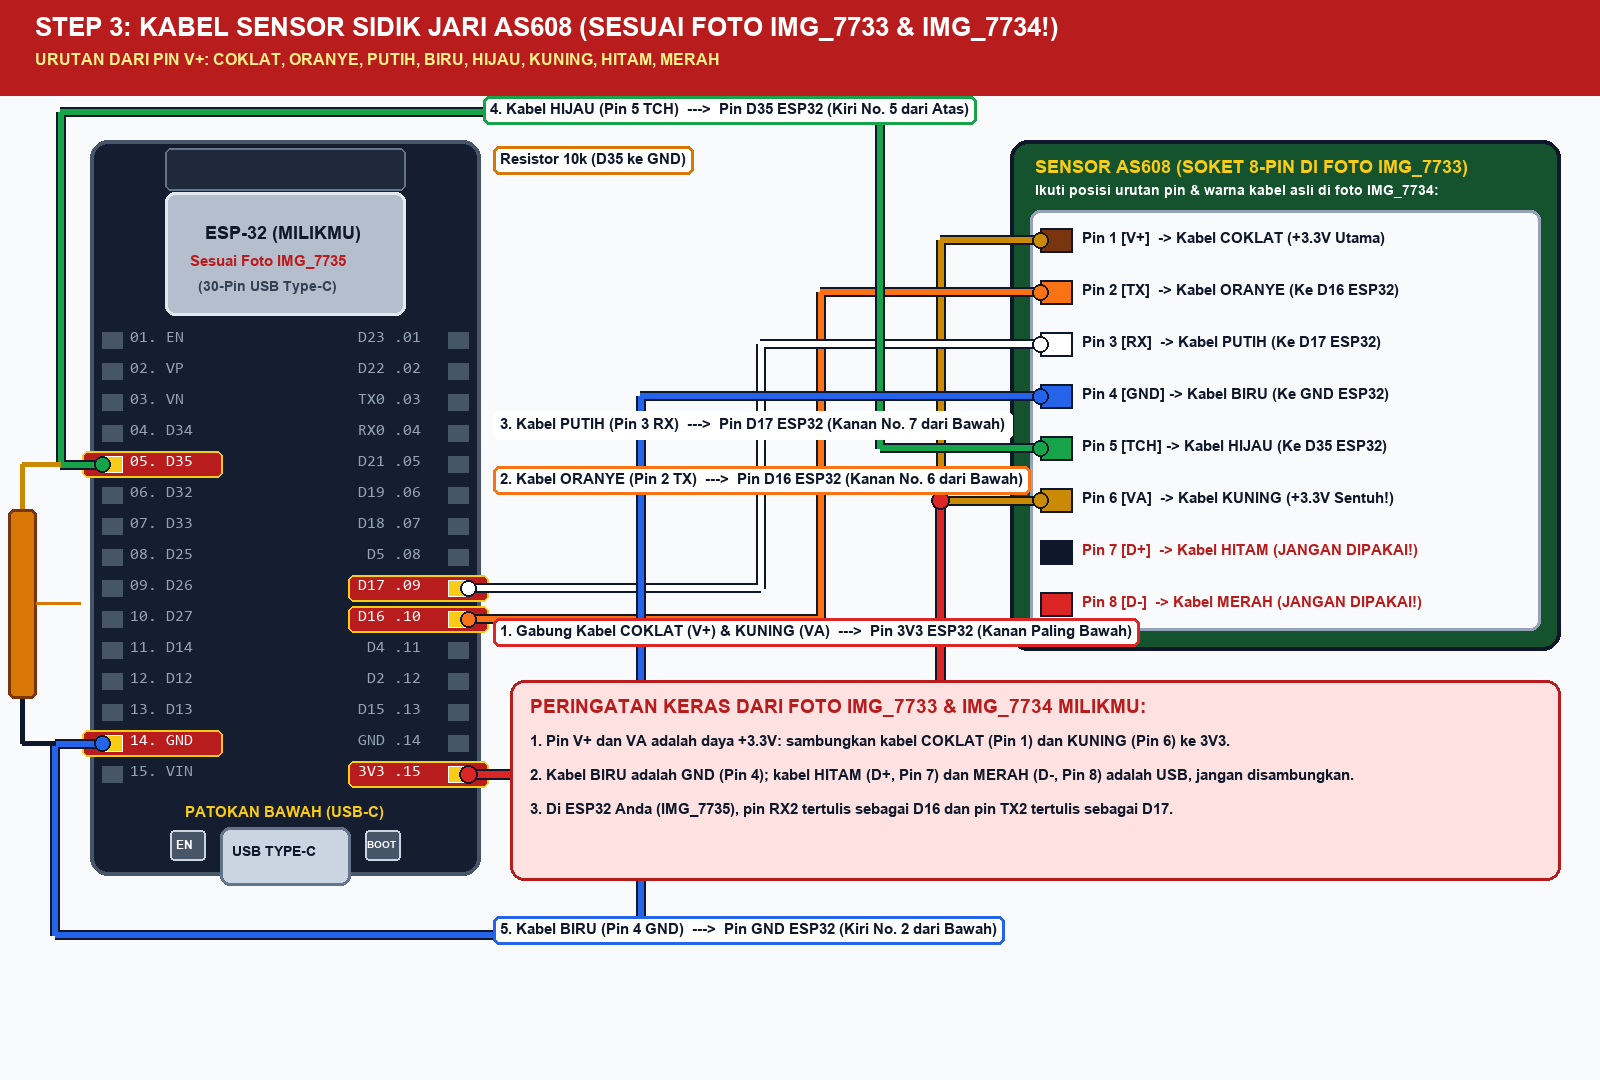
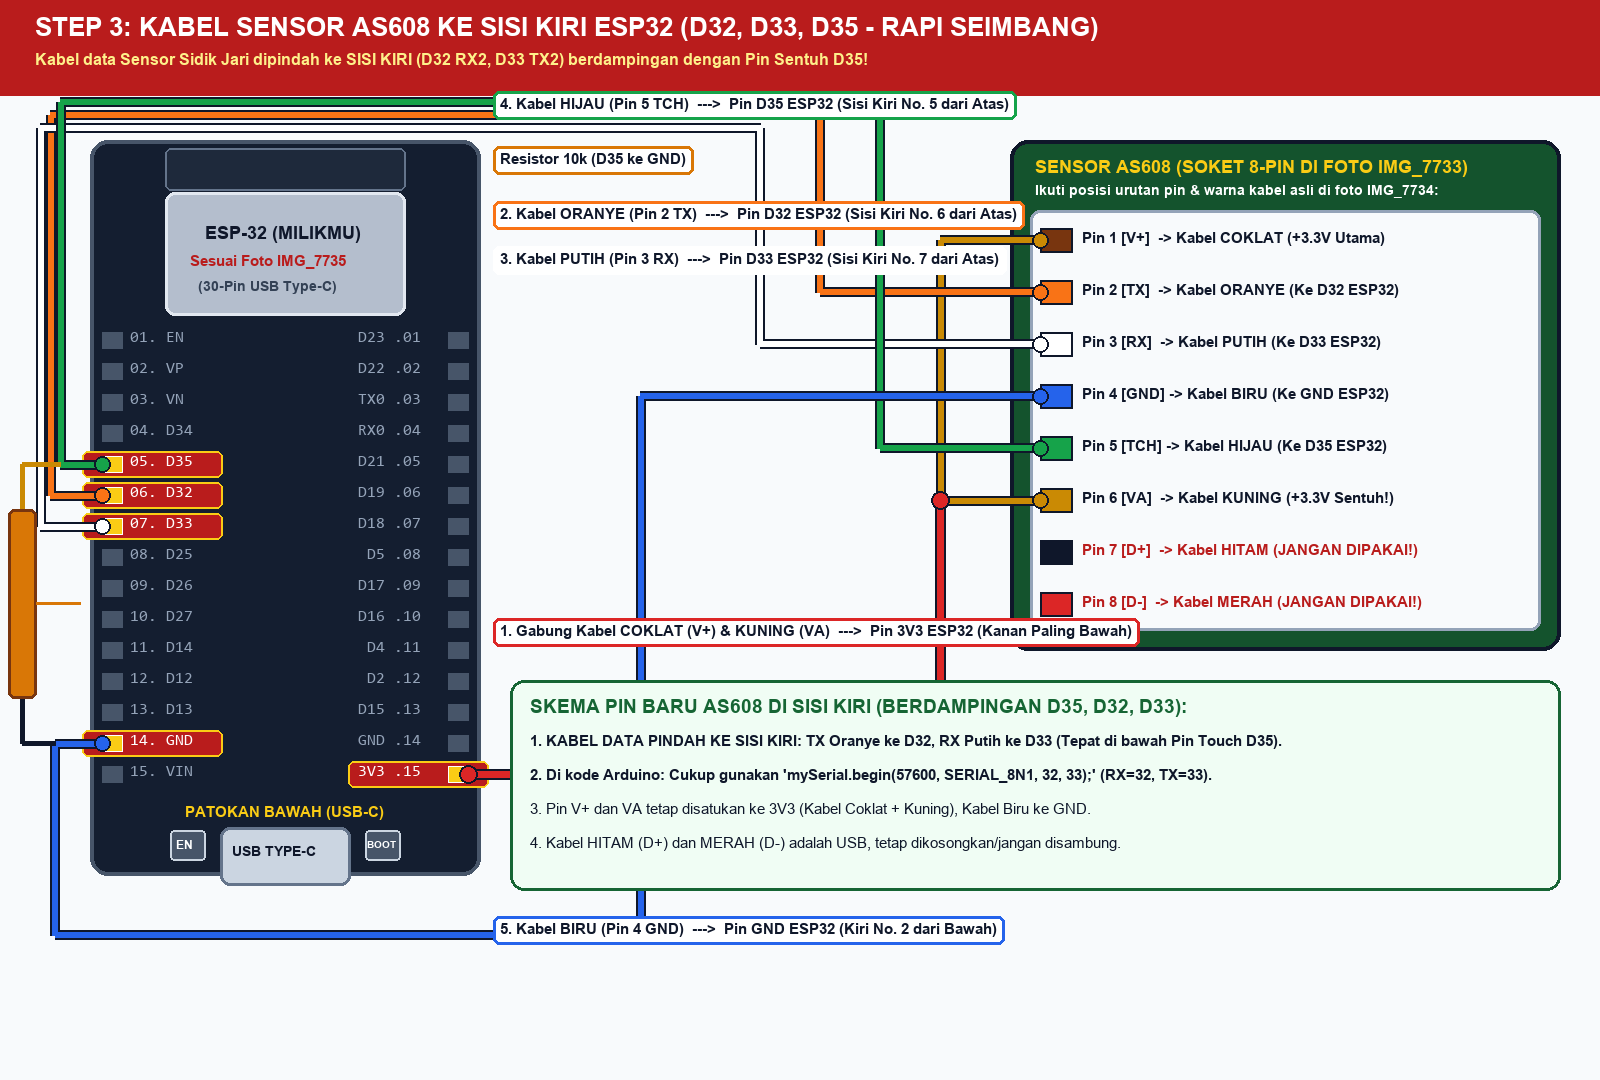
refactor: seimbangkan pinout 50-50 (OLED D25/D26 & AS608 D32/D33 di sisi kiri, W5500 di sisi kanan)

Changed region(s): [[0.3125, 0.6111, 1.0, 0.825], [0.0, 0.0, 0.6875, 0.5806], [0.2188, 0.5194, 0.375, 0.6111]]

diff --git a/render_wiring_steps.py b/render_wiring_steps.py
@@ -267,10 +267,10 @@ def make_step2():
     lbls = []
 
     d.rectangle([0, 0, W, 90], fill=(29, 78, 216))
-    d.text((35, 15), "STEP 2: PASANG LAYAR OLED 0.91\" KE ESP32 (SESUAI FOTO IMG_7735 & IMG_7736)", fill=(255, 255, 255), font=get_font(26, bold=True))
-    d.text((35, 53), "Di foto IMG_7736, tulisan di layar OLED Anda adalah: SDA, SCK, VCC, GND. Semua 4 kabel masuk ke sisi KANAN ESP32!", fill=(219, 234, 254), font=get_font(17, bold=True))
+    d.text((35, 15), "STEP 2: PASANG LAYAR OLED 0.91\" KE ESP32 (SISI KIRI: D25 & D26 - RAPI SEIMBANG)", fill=(255, 255, 255), font=get_font(26, bold=True))
+    d.text((35, 53), "Kabel data OLED dipindah ke SISI KIRI (D25 SDA, D26 SCL) agar sisi kanan tidak menumpuk dengan W5500!", fill=(219, 234, 254), font=get_font(17, bold=True))
 
-    esp_coords = draw_esp32(d, 90, 130, active_left=[], active_right=["D4", "D2", "GND_R", "3V3"])
+    esp_coords = draw_esp32(d, 90, 130, active_left=["D25", "D26", "GND_L"], active_right=["3V3"])
 
     ox, oy = 1020, 220
     ow, oh = 520, 340
@@ -278,10 +278,9 @@ def make_step2():
     d.rounded_rectangle([ox+130, oy+35, ox+ow-30, oy+oh-35], radius=8, fill=(10, 15, 25), outline=(56, 189, 248), width=3)
     d.text((ox+165, oy+95), "OLED 0.91\" BIRU", fill=(56, 189, 248), font=get_font(28, bold=True))
     d.text((ox+165, oy+140), "(Sesuai Foto IMG_7736)", fill=(250, 204, 21), font=get_font(19, bold=True))
-    d.text((ox+165, oy+180), "Solder dulu 4 pin header", fill=(255, 255, 255), font=get_font(16, bold=True))
-    d.text((ox+165, oy+205), "ke 4 lubang emas OLED!", fill=(255, 255, 255), font=get_font(16, bold=True))
+    d.text((ox+165, oy+180), "I2C SDA: D25 | SCL: D26", fill=(255, 255, 255), font=get_font(16, bold=True))
+    d.text((ox+165, oy+205), "Rapi di Sisi Kiri ESP32!", fill=(255, 255, 255), font=get_font(16, bold=True))
 
-    # Urutan persis foto IMG_7736: SDA, SCK, VCC, GND
     oled_pins = [
         ("SDA", oy+65),
         ("SCK", oy+135),
@@ -294,52 +293,56 @@ def make_step2():
         d.text((ox+55, py-12), pname, fill=(255, 255, 255), font=get_font(21, bold=True, mono=True))
         oled_pts[pname] = (ox+15, py)
 
-    # All 4 pins connect cleanly to the RIGHT side of ESP32 (D4, D2, GND_R, 3V3)!
-    # 1. SDA -> D4 (Right pin 11, y=510)
+    # 1. SDA -> D25 (Sisi Kiri No. 8 dari Atas)
     draw_wire(d, [
         oled_pts["SDA"],
-        (560, oled_pts["SDA"][1]),
-        (560, esp_coords["D4"][1]),
-        esp_coords["D4"]
-    ], (16, 185, 129), width=7, label="1. Pin SDA OLED  --->  Pin D4 ESP32 (Kanan No. 5 dari Bawah)", label_pos=(540, 240), labels_queue=lbls)
+        (940, oled_pts["SDA"][1]),
+        (940, 105),
+        (55, 105),
+        (55, esp_coords["D25"][1]),
+        esp_coords["D25"]
+    ], (16, 185, 129), width=7, label="1. Pin SDA OLED  --->  Pin D25 ESP32 (Sisi Kiri No. 8 dari Atas)", label_pos=(520, 95), labels_queue=lbls)
 
-    # 2. SCK -> D2 (Right pin 12, y=541)
+    # 2. SCK / SCL -> D26 (Sisi Kiri No. 9 dari Atas)
     draw_wire(d, [
         oled_pts["SCK"],
-        (630, oled_pts["SCK"][1]),
-        (630, esp_coords["D2"][1]),
-        esp_coords["D2"]
-    ], (37, 99, 235), width=7, label="2. Pin SCK OLED  --->  Pin D2 ESP32 (Kanan No. 4 dari Bawah)", label_pos=(540, 310), labels_queue=lbls)
+        (900, oled_pts["SCK"][1]),
+        (900, 118),
+        (45, 118),
+        (45, esp_coords["D26"][1]),
+        esp_coords["D26"]
+    ], (37, 99, 235), width=7, label="2. Pin SCK / SCL OLED  --->  Pin D26 ESP32 (Sisi Kiri No. 9 dari Atas)", label_pos=(520, 140), labels_queue=lbls)
 
-    # 3. VCC -> 3V3 (Right pin 15, bottom-right! y=634)
+    # 3. VCC -> 3V3 (Kanan Paling Bawah)
     draw_wire(d, [
         oled_pts["VCC"],
-        (770, oled_pts["VCC"][1]),
-        (770, esp_coords["3V3"][1]),
+        (850, oled_pts["VCC"][1]),
+        (850, esp_coords["3V3"][1]),
         esp_coords["3V3"]
-    ], (220, 38, 38), width=7, label="3. Pin VCC OLED  --->  Pin 3V3 ESP32 (Kanan PALING BAWAH / No. 15)", label_pos=(540, 622), labels_queue=lbls)
+    ], (220, 38, 38), width=7, label="3. Pin VCC OLED  --->  Pin 3V3 ESP32 (Kanan PALING BAWAH / No. 15)", label_pos=(520, 622), labels_queue=lbls)
 
-    # 4. GND -> GND_R (Right pin 14, 2nd from bottom-right! y=603)
+    # 4. GND -> GND_L (Kiri No. 2 dari Bawah)
     draw_wire(d, [
         oled_pts["GND"],
-        (700, oled_pts["GND"][1]),
-        (700, esp_coords["GND_R"][1]),
-        esp_coords["GND_R"]
-    ], (30, 41, 59), width=7, label="4. Pin GND OLED  --->  Pin GND ESP32 (Kanan No. 2 dari Bawah / Atasnya 3V3)", label_pos=(540, 565), labels_queue=lbls)
+        (800, oled_pts["GND"][1]),
+        (800, 920),
+        (65, 920),
+        (65, esp_coords["GND_L"][1]),
+        esp_coords["GND_L"]
+    ], (30, 41, 59), width=7, label="4. Pin GND OLED  --->  Pin GND ESP32 (Kiri No. 2 dari Bawah)", label_pos=(520, 905), labels_queue=lbls)
 
     flush_labels(d, lbls)
 
-    d.rounded_rectangle([520, 685, 1550, 965], radius=14, fill=(254, 249, 195), outline=(202, 138, 4), width=3)
-    d.text((545, 705), "TEMUAN PENTING DARI FOTO IMG_7735 & IMG_7736 MILIKMU:", fill=(185, 28, 28), font=get_font(20, bold=True))
+    d.rounded_rectangle([520, 685, 1550, 965], radius=14, fill=(240, 253, 244), outline=(22, 101, 52), width=3)
+    d.text((545, 705), "SKEMA PIN BARU (SEIMBANG KIRI-KANAN):", fill=(22, 101, 52), font=get_font(20, bold=True))
     tips = [
-        "1. Di foto IMG_7735, pin 3V3 ESP32 Anda berada di POJOK KANAN PALING BAWAH (bukan di kiri atas!).",
-        "   Jadi semua 4 kabel OLED ini sangat rapi karena semuanya dicolok ke deretan KANAN BAWAH ESP32.",
-        "2. Di foto IMG_7736, layar OLED Anda belum disolder pin-nya. Solder dulu 4 pin header ke lubang",
-        "   SDA, SCK, VCC, GND pada layar OLED sebelum mencolokkan kabel jumper.",
-        "3. Tulisan 'SCK' pada layar OLED Anda itu sama artinya dengan 'SCL' (jalur Clock), sambungkan ke D2."
+        "1. KABEL DATA I2C PINDAH KE SISI KIRI: SDA ke D25, SCL ke D26 (GPIO Matrix ESP32).",
+        "2. Di kode Arduino: Cukup gunakan 'Wire.begin(25, 26);' (SDA=25, SCL=26).",
+        "3. Sisi Kanan sekarang bersih dan khusus disediakan untuk jalur modul Ethernet W5500.",
+        "4. Tulisan 'SCK' pada papan OLED Anda sama artinya dengan 'SCL' (Clock I2C)."
     ]
     for i, t in enumerate(tips):
-        d.text((545, 745 + i*38), t, fill=(15, 23, 42), font=get_font(16, bold=(i in [0,2,4])))
+        d.text((545, 745 + i*38), t, fill=(15, 23, 42), font=get_font(16, bold=(i in [0,1])))
 
     save_both(img, "step2_wiring_oled.png")
 
@@ -354,10 +357,10 @@ def make_step3():
     lbls = []
 
     d.rectangle([0, 0, W, 95], fill=(185, 28, 28))
-    d.text((35, 12), "STEP 3: KABEL SENSOR SIDIK JARI AS608 (SESUAI FOTO IMG_7733 & IMG_7734!)", fill=(255, 255, 255), font=get_font(26, bold=True))
-    d.text((35, 50), "URUTAN DARI PIN V+: COKLAT, ORANYE, PUTIH, BIRU, HIJAU, KUNING, HITAM, MERAH", fill=(254, 240, 138), font=get_font(16, bold=True))
+    d.text((35, 12), "STEP 3: KABEL SENSOR AS608 KE SISI KIRI ESP32 (D32, D33, D35 - RAPI SEIMBANG)", fill=(255, 255, 255), font=get_font(26, bold=True))
+    d.text((35, 50), "Kabel data Sensor Sidik Jari dipindah ke SISI KIRI (D32 RX2, D33 TX2) berdampingan dengan Pin Sentuh D35!", fill=(254, 240, 138), font=get_font(16, bold=True))
 
-    esp_coords = draw_esp32(d, 90, 140, active_left=["D35", "GND_L"], active_right=["D17", "D16", "3V3"])
+    esp_coords = draw_esp32(d, 90, 140, active_left=["D35", "D32", "D33", "GND_L"], active_right=["3V3"])
 
     fx, fy = 1010, 140
     fw, fh = 550, 510
@@ -367,11 +370,10 @@ def make_step3():
 
     d.rounded_rectangle([fx+20, fy+70, fx+530, fy+490], radius=10, fill=(248, 250, 252), outline=(148, 163, 184), width=3)
 
-    # Urutan kabel dari V+: coklat, oranye, putih, biru, hijau, kuning, hitam, merah.
     fp_pins = [
         ("P1", "Pin 1 [V+]  -> Kabel COKLAT (+3.3V Utama)",     fy+100, (120, 53, 15)),
-        ("P2", "Pin 2 [TX]  -> Kabel ORANYE (Ke D16 ESP32)",    fy+152, (249, 115, 22)),
-        ("P3", "Pin 3 [RX]  -> Kabel PUTIH (Ke D17 ESP32)",     fy+204, (255, 255, 255)),
+        ("P2", "Pin 2 [TX]  -> Kabel ORANYE (Ke D32 ESP32)",    fy+152, (249, 115, 22)),
+        ("P3", "Pin 3 [RX]  -> Kabel PUTIH (Ke D33 ESP32)",     fy+204, (255, 255, 255)),
         ("P4", "Pin 4 [GND] -> Kabel BIRU (Ke GND ESP32)",      fy+256, (37, 99, 235)),
         ("P5", "Pin 5 [TCH] -> Kabel HIJAU (Ke D35 ESP32)",     fy+308, (22, 163, 74)),
         ("P6", "Pin 6 [VA]  -> Kabel KUNING (+3.3V Sentuh!)",   fy+360, (202, 138, 4)),
@@ -398,33 +400,37 @@ def make_step3():
         esp_coords["3V3"]
     ], (220, 38, 38), width=7, label="1. Gabung Kabel COKLAT (V+) & KUNING (VA)  --->  Pin 3V3 ESP32 (Kanan Paling Bawah)", label_pos=(500, 622), labels_queue=lbls)
 
-    # 2. Pin 2 (TX Oranye) -> D16 ESP32 (Kanan No. 10)
+    # 2. Pin 2 (TX Oranye) -> D32 ESP32 (Sisi Kiri No. 6 dari Atas)
     draw_wire(d, [
         fp_pts["P2"],
         (820, fp_pts["P2"][1]),
-        (820, esp_coords["D16"][1]),
-        esp_coords["D16"]
-    ], (249, 115, 22), width=6, label="2. Kabel ORANYE (Pin 2 TX)  --->  Pin D16 ESP32 (Kanan No. 6 dari Bawah)", label_pos=(500, 470), labels_queue=lbls)
+        (820, 115),
+        (50, 115),
+        (50, esp_coords["D32"][1]),
+        esp_coords["D32"]
+    ], (249, 115, 22), width=6, label="2. Kabel ORANYE (Pin 2 TX)  --->  Pin D32 ESP32 (Sisi Kiri No. 6 dari Atas)", label_pos=(500, 205), labels_queue=lbls)
 
-    # 3. Pin 3 (RX Putih) -> D17 ESP32 (Kanan No. 9)
+    # 3. Pin 3 (RX Putih) -> D33 ESP32 (Sisi Kiri No. 7 dari Atas)
     draw_wire(d, [
         fp_pts["P3"],
         (760, fp_pts["P3"][1]),
-        (760, esp_coords["D17"][1]),
-        esp_coords["D17"]
-    ], (255, 255, 255), width=6, label="3. Kabel PUTIH (Pin 3 RX)  --->  Pin D17 ESP32 (Kanan No. 7 dari Bawah)", label_pos=(500, 415), labels_queue=lbls)
+        (760, 128),
+        (40, 128),
+        (40, esp_coords["D33"][1]),
+        esp_coords["D33"]
+    ], (255, 255, 255), width=6, label="3. Kabel PUTIH (Pin 3 RX)  --->  Pin D33 ESP32 (Sisi Kiri No. 7 dari Atas)", label_pos=(500, 250), labels_queue=lbls)
 
-    # 4. Pin 5 (TCH Hijau) -> D35 ESP32 (Kiri No. 5 dari Atas, lewat jalur atas)
+    # 4. Pin 5 (TCH Hijau) -> D35 ESP32 (Sisi Kiri No. 5 dari Atas)
     draw_wire(d, [
         fp_pts["P5"],
         (880, fp_pts["P5"][1]),
-        (880, 112),
-        (60, 112),
+        (880, 102),
+        (60, 102),
         (60, esp_coords["D35"][1]),
         esp_coords["D35"]
-    ], (22, 163, 74), width=6, label="4. Kabel HIJAU (Pin 5 TCH)  --->  Pin D35 ESP32 (Kiri No. 5 dari Atas)", label_pos=(490, 100), labels_queue=lbls)
+    ], (22, 163, 74), width=6, label="4. Kabel HIJAU (Pin 5 TCH)  --->  Pin D35 ESP32 (Sisi Kiri No. 5 dari Atas)", label_pos=(500, 95), labels_queue=lbls)
 
-    # 5. Pin 4 (GND Biru) -> GND_L ESP32 (Kiri No. 2 dari Bawah, lewat jalur bawah)
+    # 5. Pin 4 (GND Biru) -> GND_L ESP32 (Kiri No. 2 dari Bawah)
     draw_wire(d, [
         fp_pts["P4"],
         (640, fp_pts["P4"][1]),
@@ -434,7 +440,7 @@ def make_step3():
         esp_coords["GND_L"]
     ], (37, 99, 235), width=6, label="5. Kabel BIRU (Pin 4 GND)  --->  Pin GND ESP32 (Kiri No. 2 dari Bawah)", label_pos=(500, 920), labels_queue=lbls)
 
-    # Resistor 10k antara D35 dan GND_L di sisi kiri luar ESP32 (x=22)
+    # Resistor 10k antara D35 dan GND_L di sisi kiri luar ESP32
     res_y1, res_y2 = esp_coords["D35"][1] + 45, esp_coords["GND_L"][1] - 45
     d.line([(60, esp_coords["D35"][1]), (22, esp_coords["D35"][1]), (22, res_y1)], fill=(202, 138, 4), width=5)
     d.line([(22, res_y2), (22, esp_coords["GND_L"][1]), (55, esp_coords["GND_L"][1])], fill=(15, 23, 42), width=5)
@@ -444,15 +450,16 @@ def make_step3():
 
     flush_labels(d, lbls)
 
-    d.rounded_rectangle([510, 680, 1560, 880], radius=14, fill=(254, 226, 226), outline=(185, 28, 28), width=3)
-    d.text((530, 695), "PERINGATAN KERAS DARI FOTO IMG_7733 & IMG_7734 MILIKMU:", fill=(185, 28, 28), font=get_font(19, bold=True))
+    d.rounded_rectangle([510, 680, 1560, 890], radius=14, fill=(240, 253, 244), outline=(22, 101, 52), width=3)
+    d.text((530, 695), "SKEMA PIN BARU AS608 DI SISI KIRI (BERDAMPINGAN D35, D32, D33):", fill=(22, 101, 52), font=get_font(19, bold=True))
     notes = [
-        "1. Pin V+ dan VA adalah daya +3.3V: sambungkan kabel COKLAT (Pin 1) dan KUNING (Pin 6) ke 3V3.",
-        "2. Kabel BIRU adalah GND (Pin 4); kabel HITAM (D+, Pin 7) dan MERAH (D-, Pin 8) adalah USB, jangan disambungkan.",
-        "3. Di ESP32 Anda (IMG_7735), pin RX2 tertulis sebagai D16 dan pin TX2 tertulis sebagai D17."
+        "1. KABEL DATA PINDAH KE SISI KIRI: TX Oranye ke D32, RX Putih ke D33 (Tepat di bawah Pin Touch D35).",
+        "2. Di kode Arduino: Cukup gunakan 'mySerial.begin(57600, SERIAL_8N1, 32, 33);' (RX=32, TX=33).",
+        "3. Pin V+ dan VA tetap disatukan ke 3V3 (Kabel Coklat + Kuning), Kabel Biru ke GND.",
+        "4. Kabel HITAM (D+) dan MERAH (D-) adalah USB, tetap dikosongkan/jangan disambung."
     ]
     for i, n in enumerate(notes):
-        d.text((530, 732 + i*34), n, fill=(15, 23, 42), font=get_font(15, bold=(i in [0,1,2])))
+        d.text((530, 732 + i*34), n, fill=(15, 23, 42), font=get_font(15, bold=(i in [0,1])))
 
     save_both(img, "step3_wiring_fingerprint_as608.png")
 

diff --git a/README.md b/README.md
@@ -106,13 +106,13 @@ Proyek ini menggunakan **Opsi 2**: modul Ethernet PHY **LAN8720A (RMII Native)**
   - `IO23` <-> `LAN8720A MDC`
   - `IO18` <-> `LAN8720A MDIO`
   - `IO0`  <-> `LAN8720A REFCLK / 50MHz Clock`
-* **Layar OLED 0.91" (I2C):**
-  - `IO2` <-> `OLED SCL`
-  - `IO4` <-> `OLED SDA`
-* **Sensor Sidik Jari AS608 (UART2 + Touch Sense):**
-  - `IO16` (RX2) <-> `AS608 TX`
-  - `IO17` (TX2) <-> `AS608 RX`
-  - `IO35` (Input Only) <-> `AS608 Touch Out` (dengan pull-down R5 10k ke GND)
+* **Layar OLED 0.91" (I2C di Sisi Kiri ESP32):**
+  - `IO25` <-> `OLED SDA`
+  - `IO26` <-> `OLED SCL`
+* **Sensor Sidik Jari AS608 (UART2 + Touch di Sisi Kiri ESP32):**
+  - `IO32` (RX2) <-> `AS608 TX` (Kabel Oranye)
+  - `IO33` (TX2) <-> `AS608 RX` (Kabel Putih)
+  - `IO35` (Input Only) <-> `AS608 Touch Out` (Kabel Hijau, dengan pull-down R5 10k ke GND)
 * **Buzzer Aktif:**
   - `IO14` <-> Resistor R6 1k <-> Anoda Buzzer (+) diparalel Dioda Flyback D6.
 
@@ -222,11 +222,22 @@ Casing dirancang presisi dengan toleransi clearance 1.5 mm di sekeliling PCB aga
 #### Step 1: Rakit Dioda Bridge, Resistor 25k & Kalibrasi XL7015 ke 5.00V
 ![Step 1 Kalibrasi XL7015](step1_kalibrasi_xl7015.png)
 
-#### Step 2: Pasang 4 Kabel Layar OLED 0.91" (`SDA, SCK, VCC, GND`) ke ESP32
+#### Step 2: Pasang 4 Kabel Layar OLED 0.91" (`SDA, SCK, VCC, GND`) ke Sisi Kiri ESP32
+Kabel data OLED diposisikan di **SISI KIRI ESP32** agar sisi kanan tidak menumpuk dengan kabel Ethernet:
+- `SDA` OLED -> Pin **`D25`** ESP32
+- `SCK / SCL` OLED -> Pin **`D26`** ESP32
+- `VCC` OLED -> Pin **`3V3`** ESP32 (Kanan Paling Bawah)
+- `GND` OLED -> Pin **`GND`** ESP32 (Kiri No. 2 dari Bawah)
 ![Step 2 Wiring OLED](step2_wiring_oled.png)
 
-#### Step 3: Pasang Kabel Sensor Sidik Jari AS608 (Soket 8-Pin) ke ESP32
-Urutan kabel mulai dari pin `V+`: **coklat, oranye, putih, biru, hijau, kuning, hitam, merah**. Pin 1–8 berturut-turut adalah `V+`, `TX`, `RX`, `GND`, `TCH`, `VA`, `D+`, `D-`; hubungkan coklat dan kuning ke `3V3`, biru ke `GND`, oranye (`TX`) ke `D16`, putih (`RX`) ke `D17`, dan hijau (`TCH`) ke `D35`. Kabel hitam (`D+`) dan merah (`D-`) adalah jalur USB, biarkan tidak tersambung.
+#### Step 3: Pasang Kabel Sensor Sidik Jari AS608 ke Sisi Kiri ESP32 (Berdampingan di D35, D32, D33)
+Seluruh kabel data biometrik dipusatkan di **SISI KIRI ESP32** secara berurutan:
+- Pin 1 (`V+`, Coklat) & Pin 6 (`VA`, Kuning) -> Digabung ke Pin **`3V3`**
+- Pin 2 (`TX`, Oranye) -> Pin **`D32`** ESP32
+- Pin 3 (`RX`, Putih) -> Pin **`D33`** ESP32
+- Pin 4 (`GND`, Biru) -> Pin **`GND`** ESP32 (Kiri No. 2 dari Bawah)
+- Pin 5 (`TCH`, Hijau) -> Pin **`D35`** ESP32 (dengan Resistor 10k ke GND)
+- Pin 7 (`D+`, Hitam) & Pin 8 (`D-`, Merah) -> Jalur USB, dibiarkan kosong/tidak dipakai.
 ![Step 3 Wiring Fingerprint AS608](step3_wiring_fingerprint_as608.png)
 
 #### Step 4: Pasang Buzzer, Resistor 1k & Dioda Flyback ke ESP32
@@ -272,10 +283,10 @@ Gunakan library resmi ESP32 Ethernet bawaan Arduino core (`ETH.h` yang berbasis 
 #define ETH_TYPE       ETH_PHY_LAN8720
 #define ETH_CLK_MODE   ETH_CLOCK_GPIO0_IN
 
-// OLED I2C (IO2 SCL, IO4 SDA)
+// OLED I2C di Sisi Kiri ESP32 (IO25 SDA, IO26 SCL)
 Adafruit_SSD1306 display(128, 32, &Wire, -1);
 
-// AS608 Fingerprint (UART2: IO16 RX2, IO17 TX2)
+// AS608 Fingerprint di Sisi Kiri ESP32 (UART2: IO32 RX2, IO33 TX2)
 HardwareSerial mySerial(2);
 Adafruit_Fingerprint finger = Adafruit_Fingerprint(&mySerial);
 
@@ -300,8 +311,9 @@ void WiFiEvent(WiFiEvent_t event) {
 
 void setup() {
   Serial.begin(115200);
-  Wire.begin(4, 2); // SDA=IO4, SCL=IO2
+  Wire.begin(25, 26); // SDA=IO25, SCL=IO26 (Sisi Kiri ESP32)
   display.begin(SSD1306_SWITCHCAPVCC, 0x3C);
+  mySerial.begin(57600, SERIAL_8N1, 32, 33); // RX=IO32, TX=IO33 (Sisi Kiri ESP32)
   
   WiFi.onEvent(WiFiEvent);
   ETH.begin(ETH_TYPE, ETH_ADDR, ETH_MDC_PIN, ETH_MDIO_PIN, ETH_POWER_PIN, ETH_CLK_MODE);
